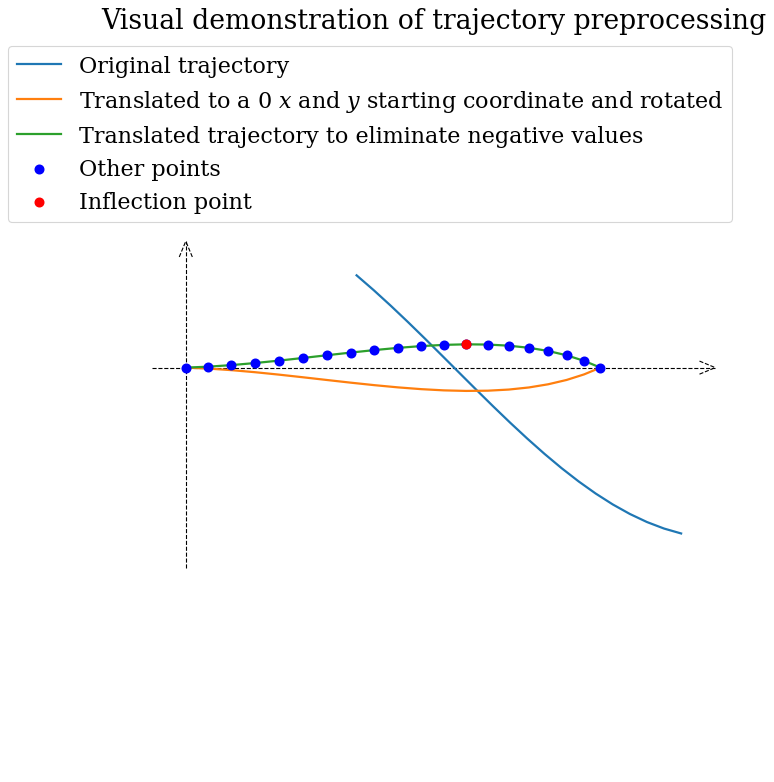
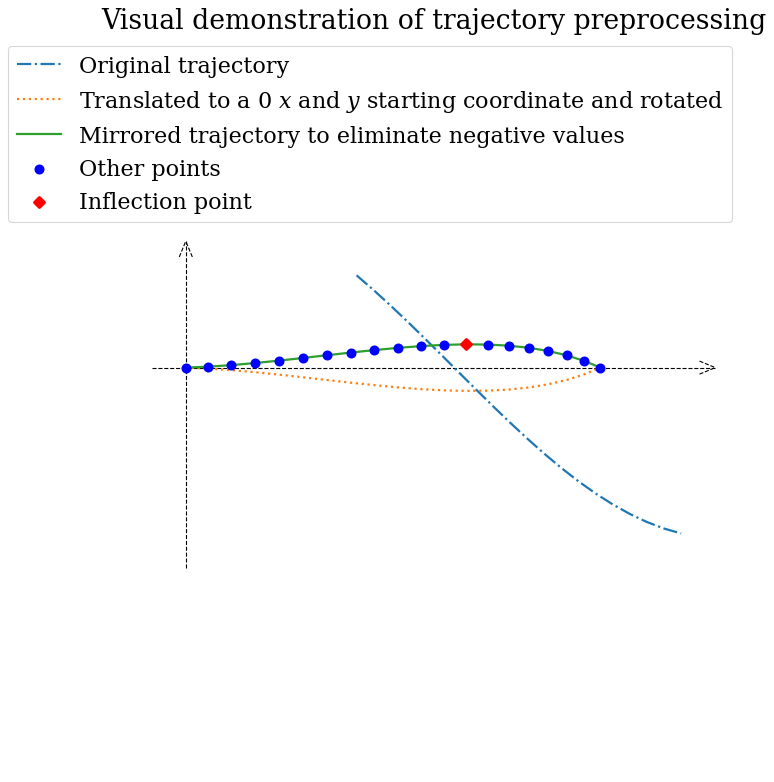
New illustrate

Changed region(s): [[0.093, 0.1535, 0.8372, 0.1841], [0.5891, 0.491, 0.6512, 0.5217], [0.031, 0.1228, 0.062, 0.1535]]

diff --git a/new_clus_img.py b/new_clus_img.py
@@ -7,35 +7,48 @@ for r in list(range(100, 121)):
     list_clus.append(r)
 
 plt.figure()
-color_list = []
 ix = 0
-for num in range(16, 256, 2):
-    print("#" +str(hex(num)).replace("0x", "") * 3)
-    color_list.append("#" +str(hex(num)).replace("0x", "") * 3)
-    plt.scatter(ix, ix, color = "#" + str(hex(num)).replace("0x", "") * 3)
+blue_list = []
+yellow_list = []
+gray_list = []
+for num in range(40):
+    light_part = str(hex(248 - num * 6)).replace("0x", "")
+    while len(light_part) < 2:
+        light_part = "0" + light_part
+    dark_part = str(hex(8 + num * 6)).replace("0x", "")
+    while len(dark_part) < 2:
+        dark_part = "0" + dark_part
+    blue_list.append("#0000" + light_part)
+    plt.scatter(ix, ix, color = "#0000" + light_part)
+    yellow_list.append("#" + light_part * 2 + "00")
+    plt.scatter(ix + 40, ix + 40, color = "#" + light_part * 2 + "00")
+    gray_list.append("#" + dark_part * 3)
+    plt.scatter(ix + 80, ix + 80, color = "#" + dark_part * 3)
     ix += 1
 plt.show()
 plt.close()
 
-color_used = [color_list[0]]
-while len(color_used) != len(color_list):
-    color_curr = color_used[-1]
-    color_diff = 0
-    color_add = color_curr
-    for color_other in color_list:
-        if abs(int(color_curr.replace("#", "0x")[:4], 16) - int(color_other.replace("#", "0x")[:4], 16)) > color_diff and color_other not in color_used:
-            color_add = color_other
-            color_diff = abs(int(color_curr.replace("#", "0x")[:4], 16) - int(color_add.replace("#", "0x")[:4], 16))
-    color_used.append(color_add)
+color_used = []
+step = len(yellow_list)
+while len(color_used) < 3 * len(yellow_list) and step >= 1:
+    step = step // 2
+    for sp in range(0, len(yellow_list), step):
+        if blue_list[sp] not in color_used:
+            color_used.append(blue_list[sp])
+        if yellow_list[sp] not in color_used:
+            color_used.append(yellow_list[sp])
+        if gray_list[sp] not in color_used:
+            color_used.append(gray_list[sp])
 
 plt.figure()
 ix = 0
 for num in range(len(color_used)):
-    print(color_used[num], int(color_used[num].replace("#", "0x")[:4], 16))
     plt.scatter(ix, ix, color = color_used[num])
     ix += 1
 plt.show()
 plt.close()
+
+dict_for_plot = dict()
 
 for subdir_name in os.listdir("marker_count"):
     
@@ -48,8 +61,6 @@ for subdir_name in os.listdir("marker_count"):
         if "_all_percent_1_20" not in csv_file and "_all_percent_1_10" not in csv_file:
             
             continue
-
-        print(csv_file) 
 
         for algo in ["DBSCAN", "KMeans"]:
 
@@ -69,8 +80,6 @@ for subdir_name in os.listdir("marker_count"):
                 comp2 = csv_df["TSNE_f2"]
                 cluster = csv_df["cluster"]
 
-                print(new_name_csv, algo, num_clus, len(set(csv_df["cluster"])), -1 in set(cluster))
-
                 point_dict = dict()
                 
                 for ix_point in range(len(comp1)):
@@ -78,13 +87,52 @@ for subdir_name in os.listdir("marker_count"):
                         point_dict[cluster[ix_point]] = {"x": [], "y": []}
                     point_dict[cluster[ix_point]]["x"].append(comp1[ix_point])
                     point_dict[cluster[ix_point]]["y"].append(comp2[ix_point])
-                    
-                plt.figure()
-                plt.title(algo + " " + str(num_clus))
-                plt.xlabel("TSNE f1")
-                plt.ylabel("TSNE f2")
-                plt.fill_between([min(comp1), max(comp1)], min(comp2), max(comp2), color = "blue")
-                for cluster_num in cluster:
-                    plt.scatter(point_dict[cluster_num]["x"], point_dict[cluster_num]["y"], color = color_used[cluster_num + 1 * (-1 in set(cluster))])
-                plt.show()
-                plt.close()
+
+                cluster_size = {c: len(point_dict[c]["x"]) for c in point_dict}
+
+                min_zorder = 3
+                cluster_zorder = dict()
+                for size in sorted(list(cluster_size.values()), reverse = True):
+                    for cluster_name in cluster_size:
+                        if cluster_size[cluster_name] == size and cluster_name not in cluster_zorder:
+                            cluster_zorder[cluster_name] = min_zorder
+                            min_zorder += 1
+
+                if algo not in dict_for_plot:
+                    dict_for_plot[algo] = dict()
+
+                dict_for_plot[algo][num_clus] = {
+                    "point_dict": point_dict,
+                    "cluster_zorder": cluster_zorder
+                }
+
+for algo in dict_for_plot:
+    plt.figure()
+    ix_ord = 1
+    for num_clus in dict_for_plot[algo]:
+        point_dict = dict_for_plot[algo][num_clus]["point_dict"]
+        cluster_zorder = dict_for_plot[algo][num_clus]["cluster_zorder"]
+        plt.subplot(8, 5, ix_ord)
+        plt.title(algo + " " + str(num_clus))
+        plt.xlabel("TSNE 1")
+        plt.ylabel("TSNE 2")
+        num_added = set()
+        for color_num in range(len(color_used)):
+            cluster_num = color_num - 1 * (-1 in point_dict)
+            if cluster_num in point_dict:
+                plt.scatter(point_dict[cluster_num]["x"], point_dict[cluster_num]["y"], 
+                            zorder = cluster_zorder[cluster_num], 
+                            edgecolor = color_used[color_num], 
+                            facecolor = color_used[color_num], 
+                            label = str(color_num + 1))
+            else:
+                plt.scatter(0, 0, 
+                            zorder = 2, 
+                            edgecolor = color_used[color_num], 
+                            facecolor = color_used[color_num],
+                            label = str(color_num + 1))
+        if ix_ord == 36:
+            plt.legend(ncol = 10)
+        ix_ord += 1
+    plt.show()
+    plt.close()

diff --git a/illustrate_3.py b/illustrate_3.py
@@ -109,10 +109,9 @@ plt.plot([0, 0], [miny, maxy], c = "k", linestyle = "dashed", linewidth = 1)
 plt.plot([minx, maxx], [0, 0], c = "k", linestyle = "dashed", linewidth = 1)
 make_arrow(0, maxy, 0.1, angle = np.pi / 2)
 make_arrow(maxx, 0, 0.1, angle = np.pi * 2)
-plt.plot(long, lat, linewidth = 2, label = "Original trajectory")
-plt.plot(long_new, lat_new, linewidth = 2, label = "Translated to a $0$ $x$ and $y$ starting coordinate and rotated")
-plt.plot(long_new2, lat_new2, linewidth = 2, label = "Translated trajectory to eliminate negative values")
-plt.scatter(long_new2, lat_new2, c = "b", zorder = 2, linewidth = 3, label = "Other points")
+plt.plot(long, lat, linewidth = 2, linestyle = "dashdot", label = "Original trajectory")
+plt.plot(long_new, lat_new, linewidth = 2, linestyle = "dotted", label = "Translated to a $0$ $x$ and $y$ starting coordinate and rotated")
+plt.plot(long_new2, lat_new2, linewidth = 2, label = "Mirrored trajectory to eliminate negative values")
 
 long_sgn = [long_new2[i + 1] > long_new2[i] for i in range(len(long_new2) - 1)]
 lat_sgn = [lat_new2[i + 1] > lat_new2[i] for i in range(len(lat_new2) - 1)]
@@ -139,11 +138,27 @@ for i in range(len(long_change_sgn)):
 print(mrkr)
 print(infls_long)
 print(infls_lat)
-
+labeled_original = False
+for num in range(len(long_new2)):
+    if num not in infls_lat and num not in infls_long:
+        if not labeled_original:
+            plt.scatter(long_new2[num], lat_new2[num], c = "b", zorder = 2, linewidth = 3, label = "Other points")
+            labeled_original = True
+        else:
+            plt.scatter(long_new2[num], lat_new2[num], c = "b", zorder = 2, linewidth = 3)
+labeled = False
 for num in infls_long:
-    plt.scatter(long_new2[num], lat_new2[num], c = "r", zorder = 2, linewidth = 3)
+    if not labeled:
+        plt.scatter(long_new2[num], lat_new2[num], c = "r", marker = "D", zorder = 2, linewidth = 3, label = "Inflection point")
+        labeled = True
+    else:
+        plt.scatter(long_new2[num], lat_new2[num], c = "r", marker = "D", zorder = 2, linewidth = 3)
 for num in infls_lat:
-    plt.scatter(long_new2[num], lat_new2[num], c = "r", zorder = 2, linewidth = 3, label = "Inflection point")
+    if not labeled:
+        plt.scatter(long_new2[num], lat_new2[num], c = "r", marker = "D", zorder = 2, linewidth = 3, label = "Inflection point")
+        labeled = True
+    else:
+        plt.scatter(long_new2[num], lat_new2[num], c = "r", marker = "D", zorder = 2, linewidth = 3)
 plt.legend()
 plt.savefig("rotate_illustrate_3.png", bbox_inches = "tight")
 plt.close()
